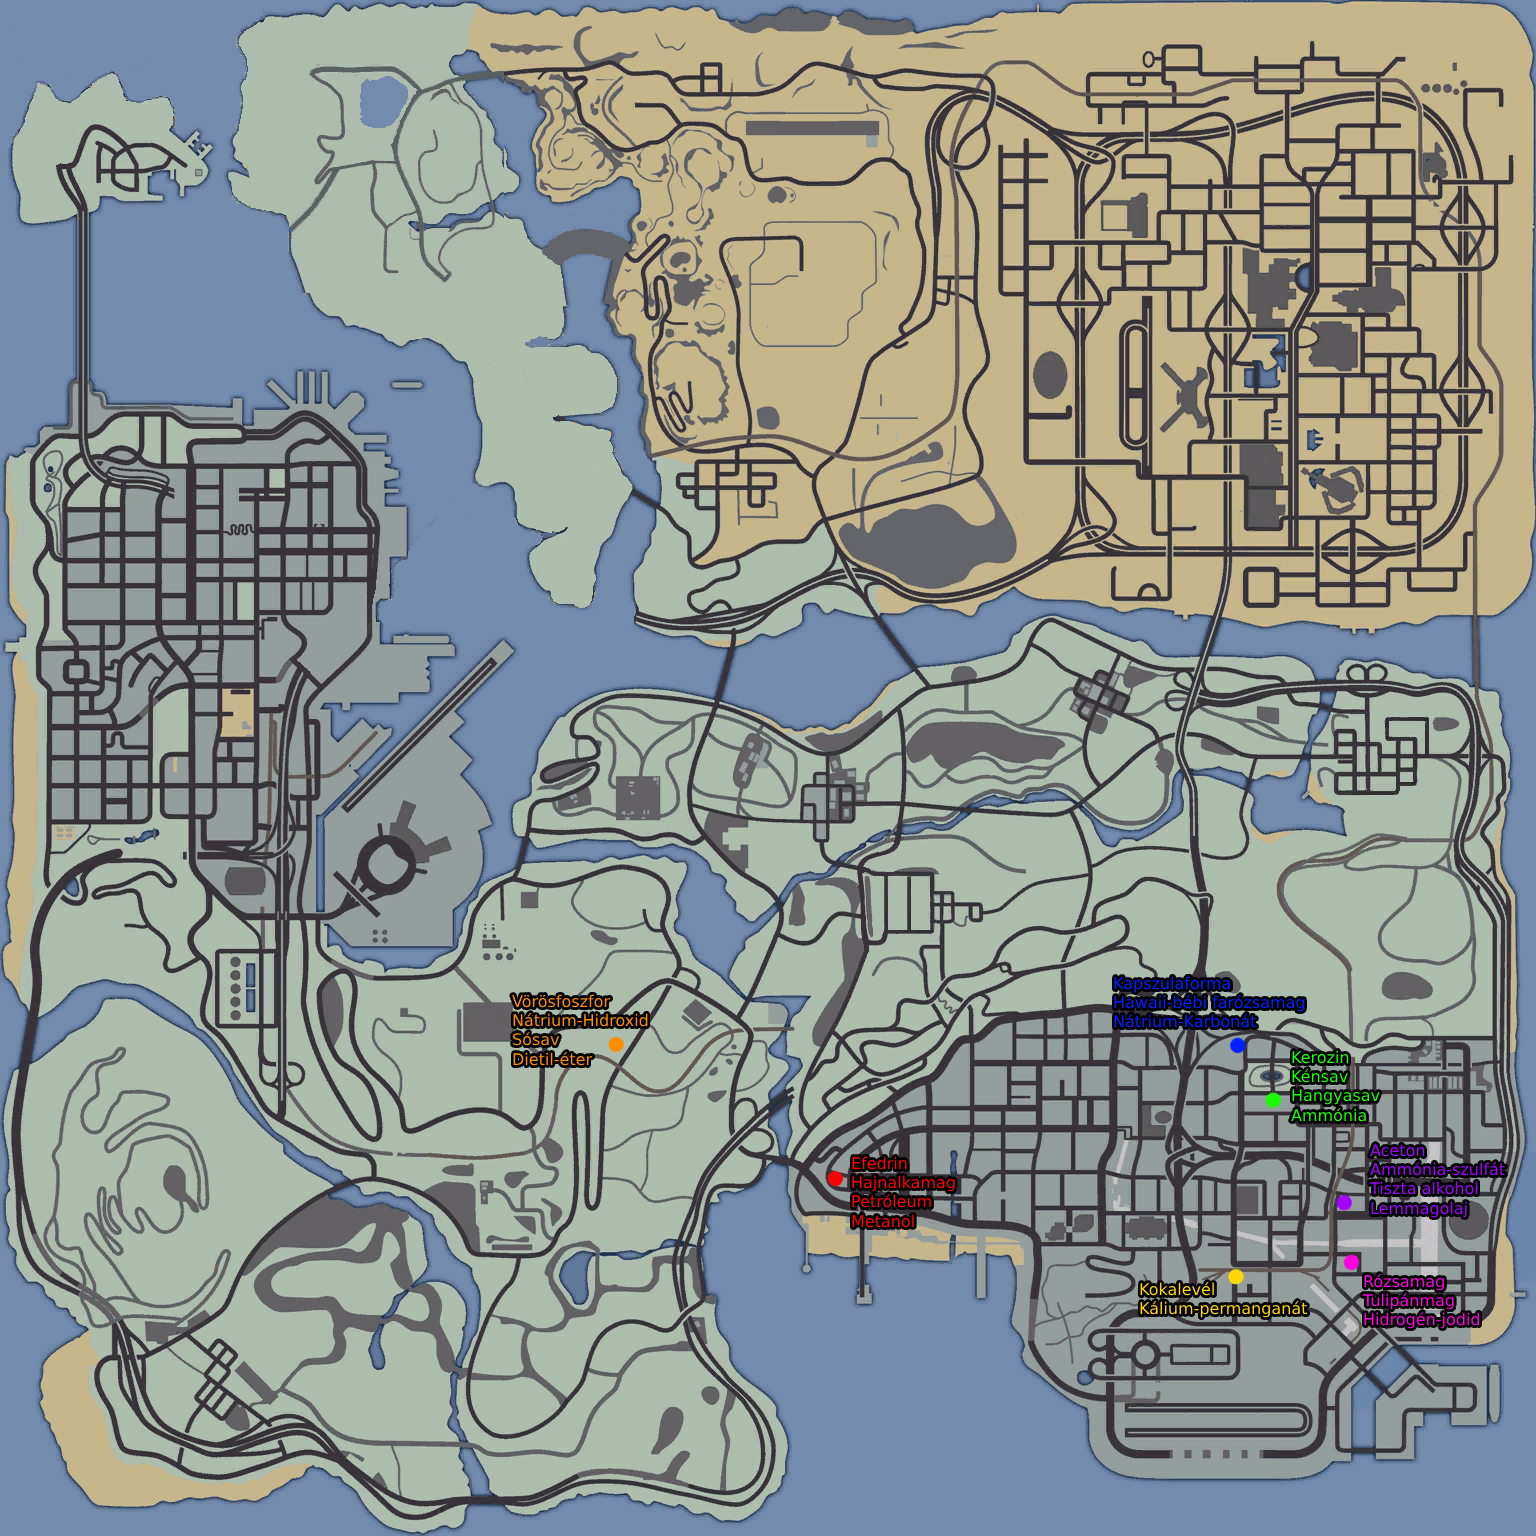
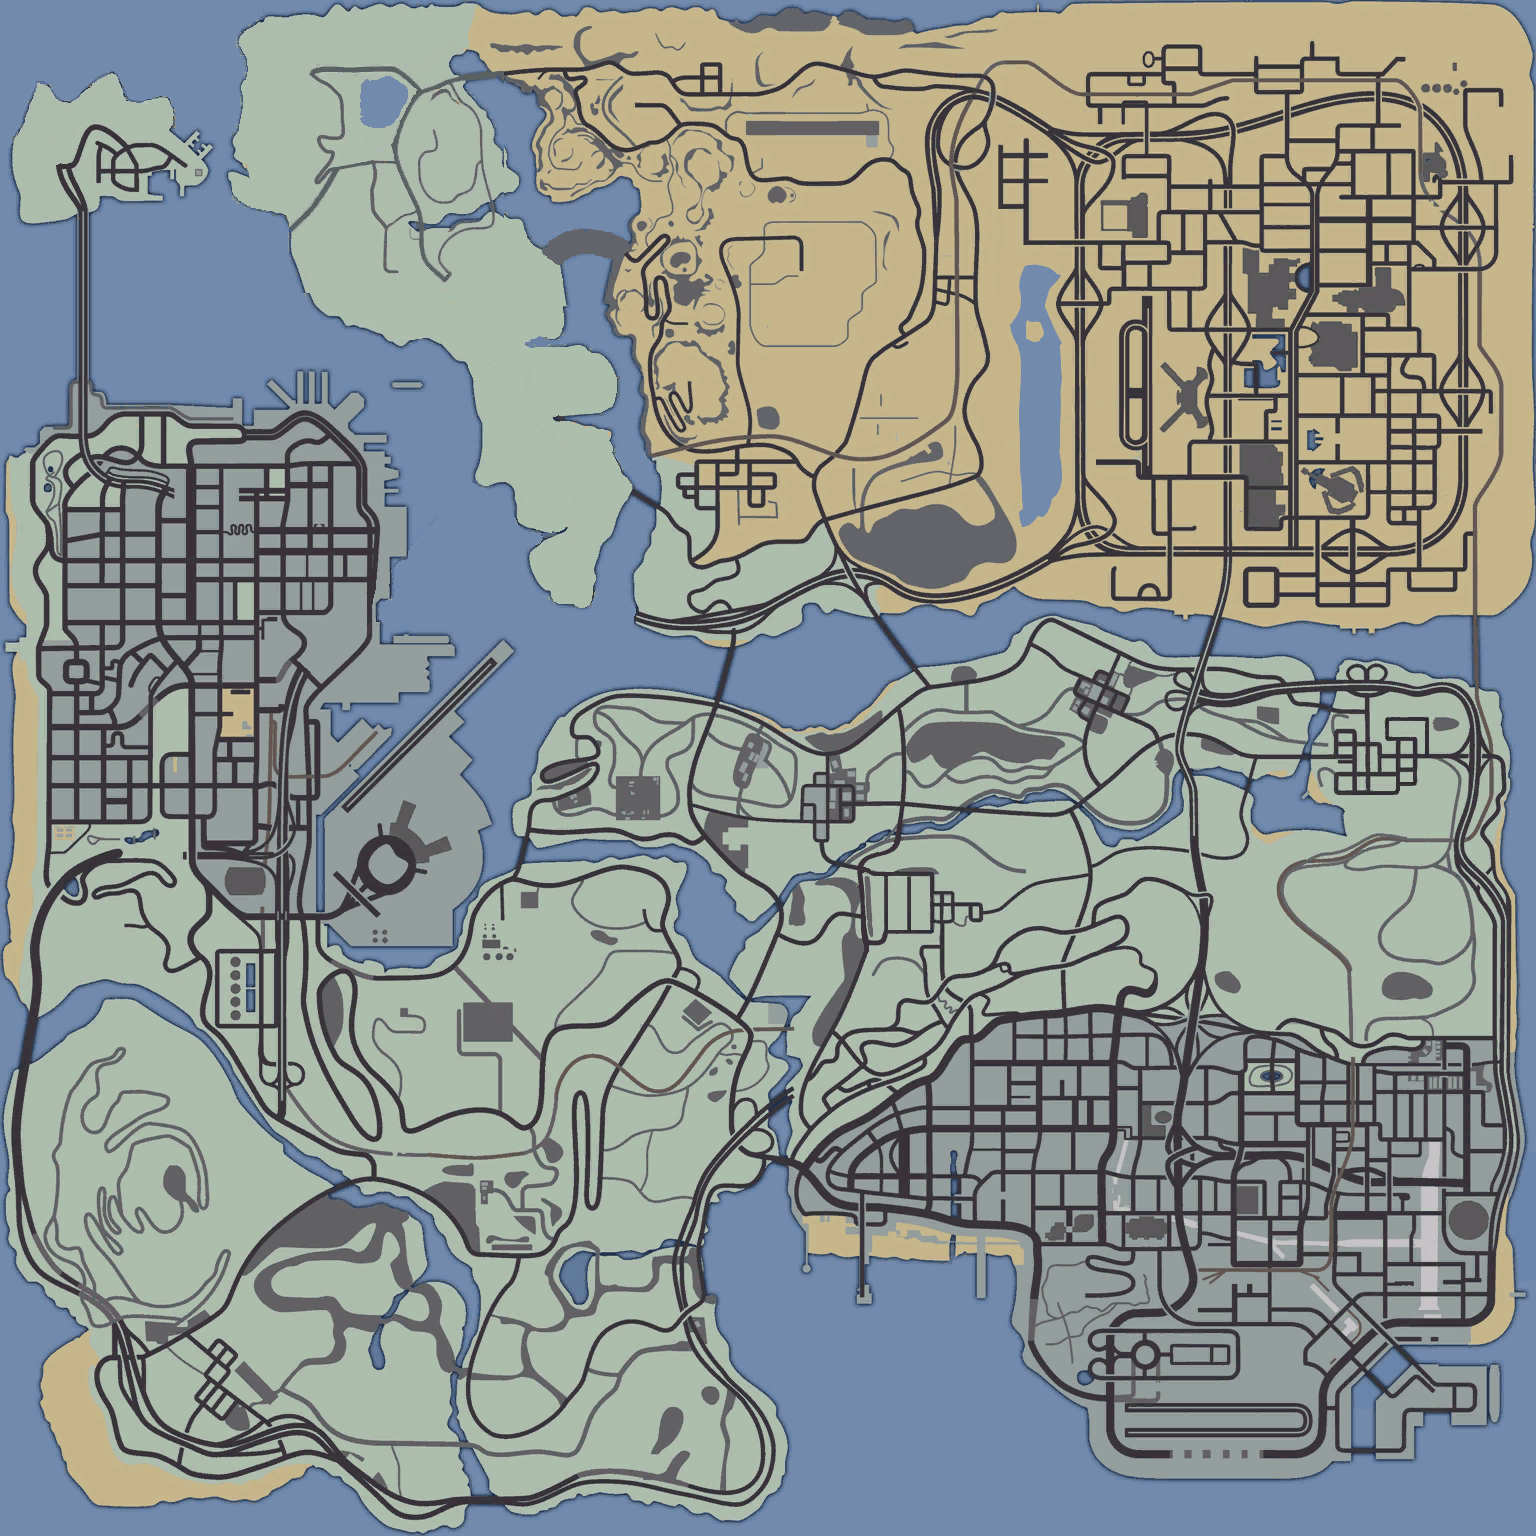
Add files via upload

diff --git a/index.html b/index.html
@@ -1,60 +1,50 @@
 <!DOCTYPE html>
 <html>
 <head>
-  <title>Blips with Tooltips</title>
-  <style>
-    body {
-      background-image: url("background.png");
-      width: 100%;
-	  height: 1080px;
-	  background-repeat: no-repeat;
-	  background-size: contain;
-	  background-color: #738bad;
-    }
-    
-    .blip {
-      position: absolute;
-      background-color: #ff0000;
-      width: 20px;
-      height: 20px;
-      border-radius: 50%;
-      cursor: pointer;
-    }
-    
-    .tooltip {
-      visibility: hidden;
-      width: 120px;
-      background-color: #000000;
-      color: #ffffff;
-      text-align: center;
-      border-radius: 6px;
-      padding: 5px;
-      position: absolute;
-      z-index: 1;
-    }
-    
-    .blip:hover .tooltip {
-      visibility: visible;
-    }
-	
-	.content {
-      width: 300px;
-      margin-left: auto;
-      margin-right: 20px;
-      padding: 20px;
-      background-color: rgba(255, 255, 255, 0.8);
-    }
-  </style>
+  <title>Hungary Life MTA Drogtérkép</title>
+  <link rel="stylesheet" href="index.css">
+  <meta charset="UTF-8">
+  <meta name="author" content="Ignéczi Tibor">
+  <meta name="description" content="Hungary Life Drogtérkép">
 </head>
 <body>
   <div class="blip" style="top: 730px; left: 430px;">
-    <span class="tooltip">Blip 1</span>
+    <span class="tooltip">Vörösfoszfor<br>
+	Nátrium-Hidroxid<br>
+	Sósav<br>
+	Dietil-Éter</span>
   </div>
-  <div class="blip" style="top: 300px; left: 400px;">
-    <span class="tooltip">Blip 2</span>
+  <div class="blip" style="top: 830px; left: 585px;">
+    <span class="tooltip">Efedrin<br>
+	Hajnalkamag<br>
+	Petróleum<br>
+	Metanol</span>
   </div>
-  <div class="blip" style="top: 500px; left: 600px;">
-    <span class="tooltip">Blip 3</span>
+  <div class="blip" style="top: 735px; left: 875px;">
+    <span class="tooltip">Kapszulaforma<br>
+	Hawaii-bébi farózsamag<br>
+	Nátrium-Karbonát</span>
+  </div>
+  <div class="blip" style="top: 900px; left: 875px;">
+    <span class="tooltip">Kokalevél<br>
+	Kálium-permanganát</span>
+  </div>
+  <div class="blip" style="top: 775px; left: 900px;">
+    <span class="tooltip">Kerozin<br>
+	Kénsav<br>
+	Hangyasav<br>
+	Ammónia</span>
+  </div>
+  <div class="blip" style="top: 850px; left: 950px;">
+    <span class="tooltip">Aceton<br>
+	Ammónia-szulfát<br>
+	Tiszta alkohol<br>
+	Lenmagolaj</span>
+  </div>
+  <div class="blip" style="top: 890px; left: 955px;">
+    <span class="tooltip">Rózsamag<br>
+	Tulipánmag<br>
+	Hidrogén-Jodid</span>
   </div>
   <div class="content">
     <h1>HL Drogtérkép</h1>

diff --git a/index.css b/index.css
@@ -1,0 +1,41 @@
+	body {
+      background-image: url("background.png");
+      width: 100%;
+	  height: 1080px;
+	  background-repeat: no-repeat;
+	  background-size: contain;
+	  background-color: #738bad;
+    }
+    
+    .blip {
+      position: absolute;
+      background-color: #ff0000;
+      width: 20px;
+      height: 20px;
+      border-radius: 50%;
+      cursor: pointer;
+    }
+    
+    .tooltip {
+      visibility: hidden;
+      width: 120px;
+      background-color: #000000;
+      color: #ffffff;
+      text-align: center;
+      border-radius: 6px;
+      padding: 5px;
+      position: absolute;
+      z-index: 1;
+    }
+    
+    .blip:hover .tooltip {
+      visibility: visible;
+    }
+	
+	.content {
+      width: 300px;
+      margin-left: auto;
+      margin-right: 20px;
+      padding: 20px;
+      background-color: rgba(255, 255, 255, 0.8);
+    }
